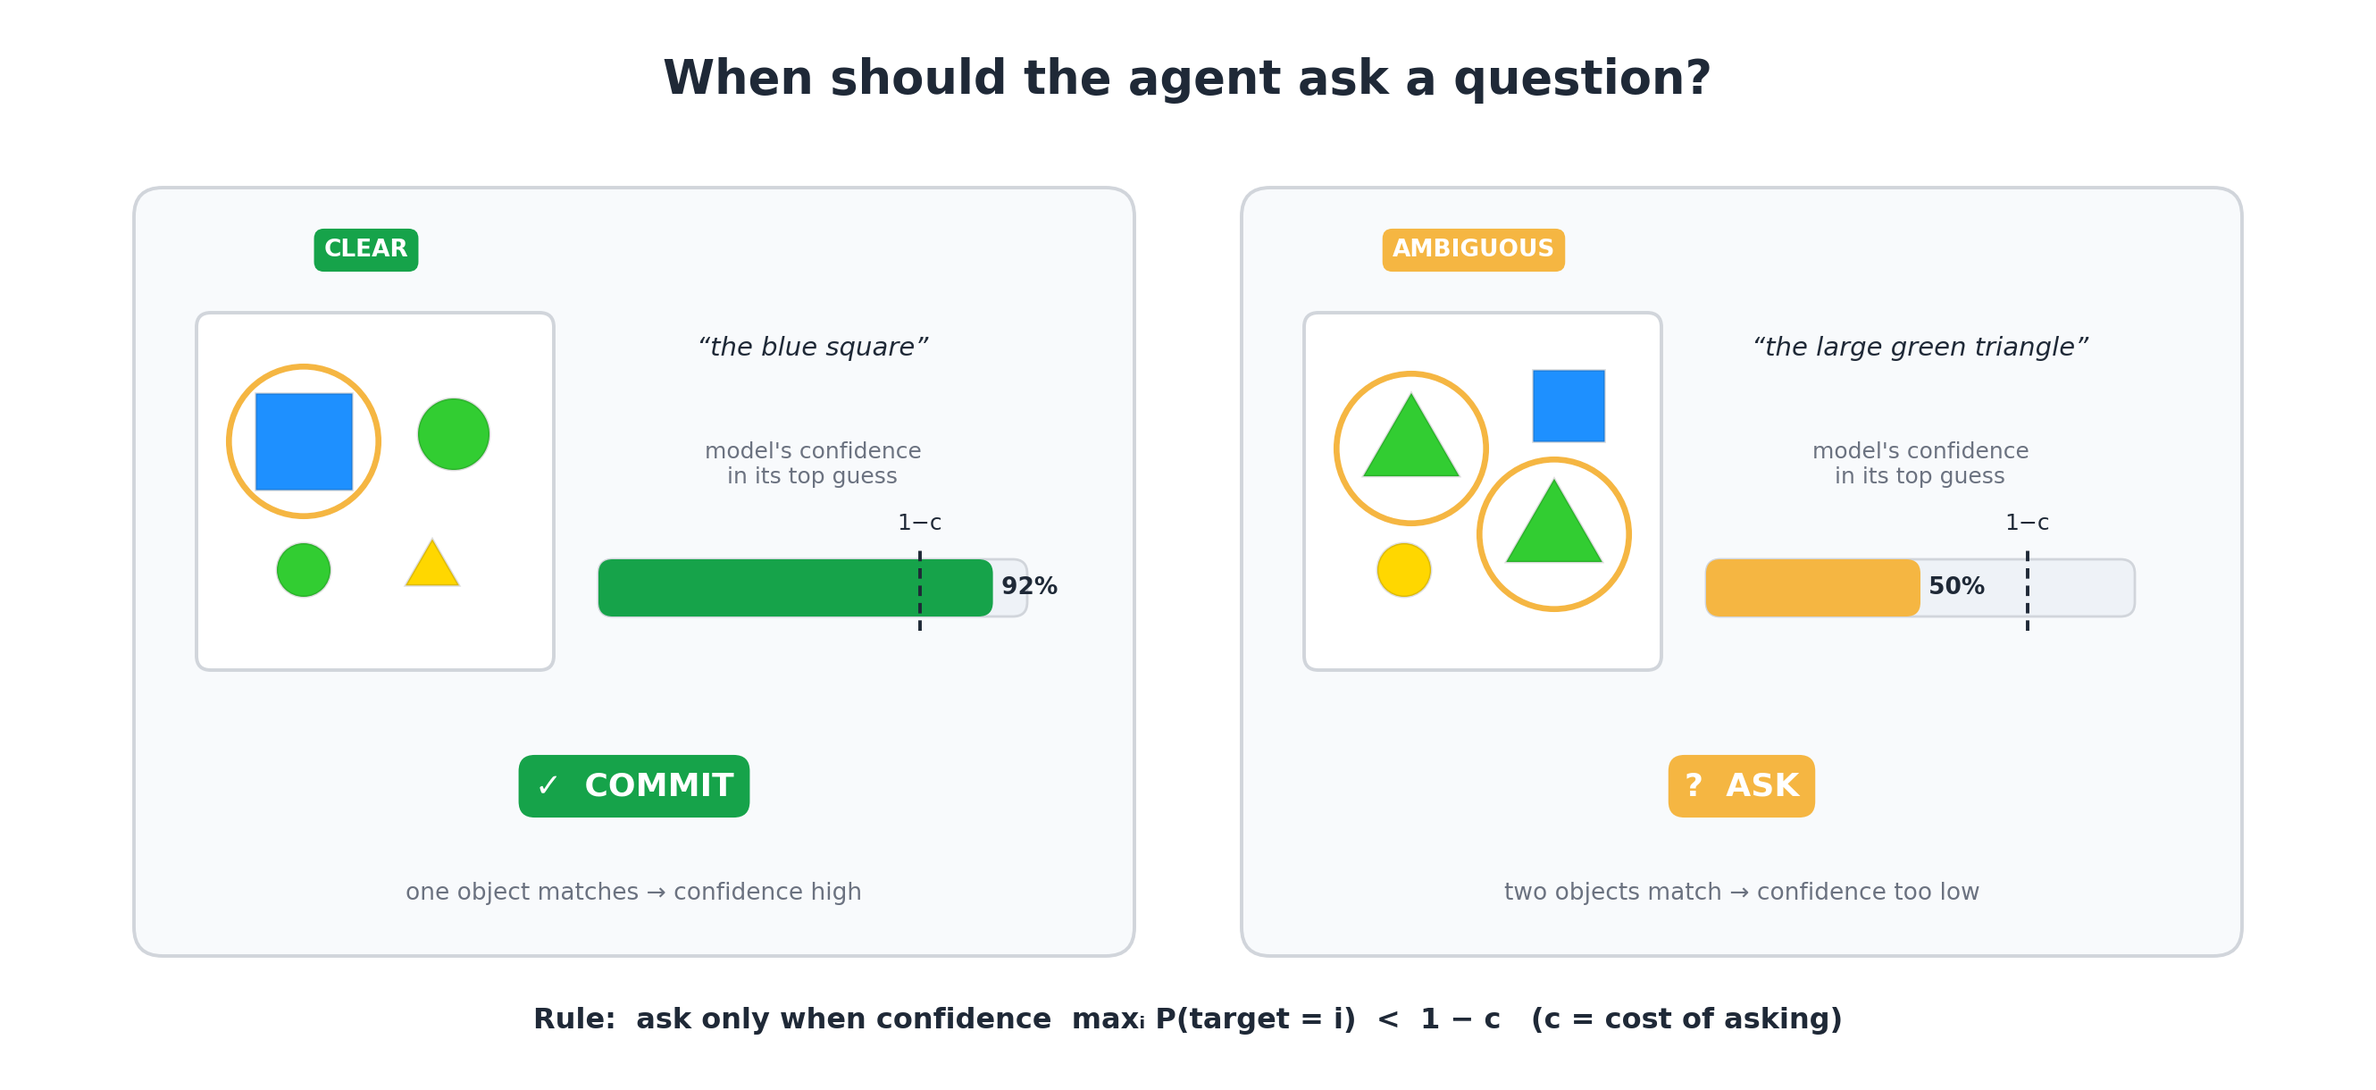
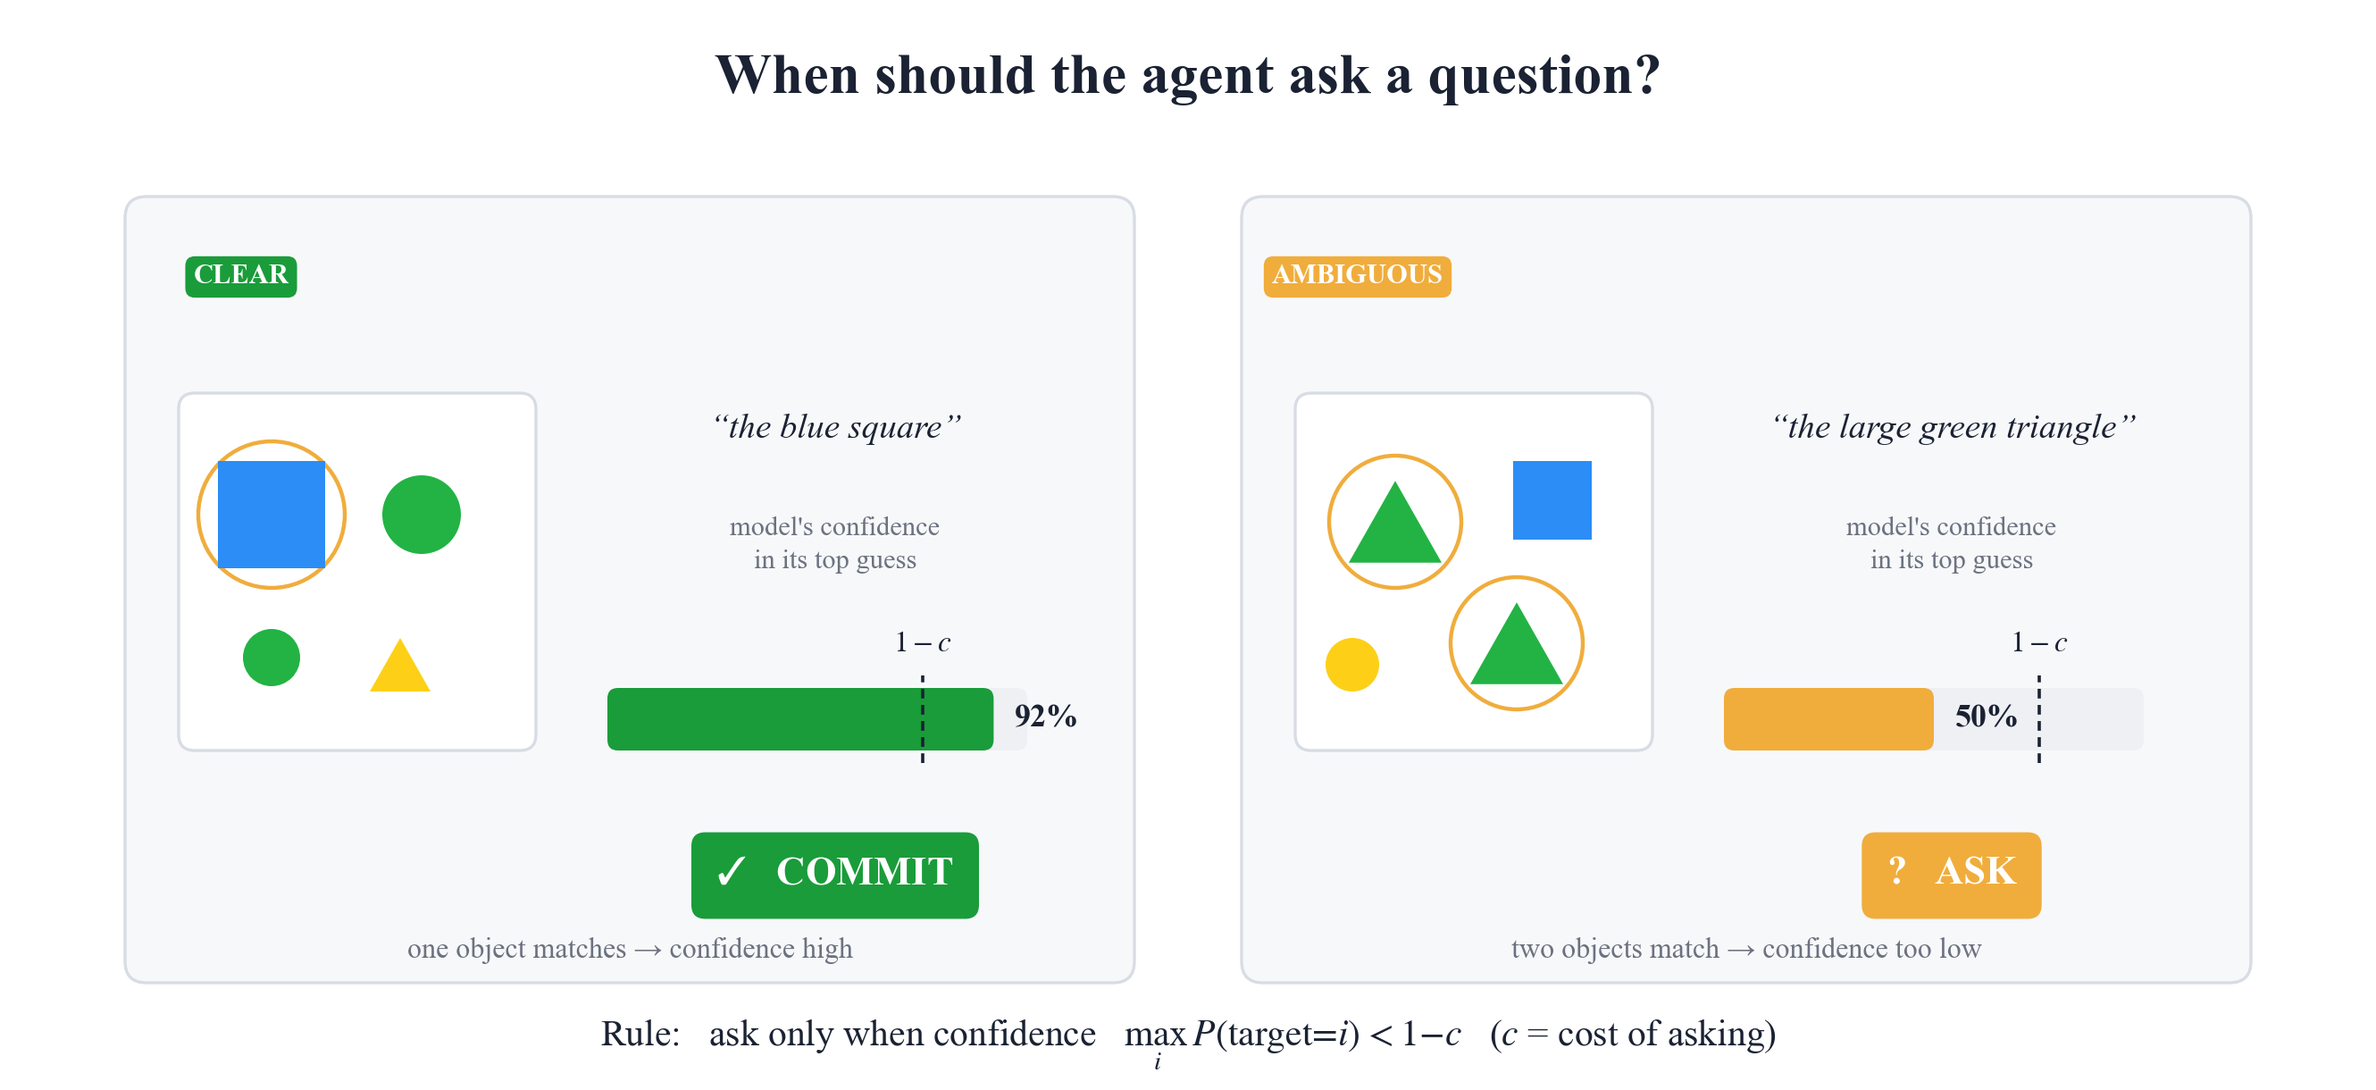
Restyle the CS 288 reference-game project
Drop the gold "UC Berkeley CS 288" partner line from both CS 288 cards and
trim the Ask or Commit description from six sentences to four, keeping the
1-c rule, the 28,800-evaluation scale, and the miscalibrated-uncertainty
conclusion.

Retypeset the three carousel figures in the style of an AI/ML conference
paper: Times New Roman body text with STIX Two math, so the decision rule
reads as real math rather than plain text. Colors and layout are unchanged.
The original generator was never committed, so the figures are rebuilt from
the images; scripts/make_refgame_figures.py now keeps them reproducible.
Also fixes the "target" label, which the old figure clipped against the
left panel border.

Suppress the blue uppercase slide caption on this carousel via a
slideLabels flag, leaving the Polar Cloud captions in place. The alt text
stays for screen readers.

diff --git a/data.js b/data.js
@@ -134,10 +134,10 @@ const PROJECTS = [
       { src: 'assets/refgame_decision.png', alt: 'The ask-or-commit rule: commit when confident, ask only when the description is ambiguous' },
       { src: 'assets/refgame_result.png',   alt: 'Key finding: the listener that never over-asks scores highest; more reasoning lowers the score' },
     ],
+    slideLabels: false,
     icon: '🎯',
-    partner: 'UC Berkeley CS 288',
     title: 'Ask or Commit? Clarification in Multimodal Reference Games',
-    desc: 'A decision-theoretic study of when a language agent should <em>ask a clarifying question</em> versus commit to an answer. I frame clarification as a training-free expected-utility rule grounded in Rational Speech Act theory: the listener asks only when its top posterior falls below a confidence threshold of <strong>1&minus;c</strong>. Across <strong style="color:var(--gold)">28,800 evaluations</strong> spanning 8 speaker and 6 listener strategies over synthetic vision-language scenes, a counterintuitive result emerges — <strong>more reasoning hurts</strong>. Chain-of-Thought listeners verbalize visual uncertainty into diffuse posteriors that trigger needless questions and <em>lower</em> cost-penalized accuracy, even when the top guess was already correct. Ablations pin the cause: the bottleneck for pragmatic agents is not reasoning capability but <strong style="color:var(--gold)">miscalibrated uncertainty</strong> — the simplest hard-decision listener, which never asks, dominates every elaborate alternative.',
+    desc: 'A decision-theoretic study of when a language agent should <em>ask a clarifying question</em> versus commit. Grounded in Rational Speech Act theory, the listener asks only when its top posterior falls below a confidence threshold of <strong>1&minus;c</strong> — a training-free expected-utility rule. Across <strong style="color:var(--gold)">28,800 evaluations</strong> spanning 8 speaker and 6 listener strategies, a counterintuitive result emerges: <strong>more reasoning hurts</strong>. Chain-of-Thought listeners verbalize visual uncertainty into diffuse posteriors that trigger needless questions and <em>lower</em> cost-penalized accuracy, even when the top guess was already right. The bottleneck is not reasoning capability but <strong style="color:var(--gold)">miscalibrated uncertainty</strong> — the simplest listener, which never asks, dominates every elaborate alternative.',
     links: [
       { type: 'github', url: 'https://github.com/minikouda/pragmatic-reference-game' },
       { type: 'report', url: 'assets/ask-or-commit.pdf' },
@@ -170,7 +170,6 @@ const PROJECTS = [
   {
     featured: false,
     icon: '🤖',
-    partner: 'UC Berkeley CS 288',
     title: 'Berkeley EECS RAG Question-Answering System',
     desc: 'End-to-end Retrieval-Augmented Generation pipeline over Berkeley EECS web content. Built an async web crawler, LLM-powered data cleaner, and semantic chunker. Retrieval uses FAISS dense search (BGE embeddings) fused with BM25 via RRF, augmented by HyDE query expansion and cross-encoder re-ranking. Generation powered by LLaMA-3.1-8B.',
     links: [

diff --git a/script.js b/script.js
@@ -176,19 +176,20 @@ function buildDiagram(d) {
     </div>`;
 }
 
-function buildCarousel(slides) {
+function buildCarousel(slides, showLabels = true) {
   const imgs = slides.map((s, i) =>
     `<img src="${s.src}" alt="${s.alt}" loading="lazy" class="carousel-slide${i === 0 ? ' active' : ''}" />`
   ).join('');
   const dots = slides.map((_, i) =>
     `<button class="carousel-dot${i === 0 ? ' active' : ''}" aria-label="Slide ${i + 1}"></button>`
   ).join('');
+  const label = showLabels ? '<div class="carousel-label"></div>' : '';
   return `
     <div class="carousel">
       <div class="carousel-track">${imgs}</div>
       <button class="carousel-btn carousel-prev" aria-label="Previous">&#8249;</button>
       <button class="carousel-btn carousel-next" aria-label="Next">&#8250;</button>
-      <div class="carousel-label"></div>
+      ${label}
       <div class="carousel-dots">${dots}</div>
     </div>`;
 }
@@ -206,10 +207,10 @@ function initCarousels() {
       idx = (n + slides.length) % slides.length;
       slides[idx].classList.add('active');
       dots[idx].classList.add('active');
-      label.textContent = slides[idx].alt;
+      if (label) label.textContent = slides[idx].alt;
     }
 
-    label.textContent = slides[0].alt;
+    if (label) label.textContent = slides[0].alt;
     carousel.querySelector('.carousel-prev').addEventListener('click', () => go(idx - 1));
     carousel.querySelector('.carousel-next').addEventListener('click', () => go(idx + 1));
     dots.forEach((dot, i) => dot.addEventListener('click', () => go(i)));
@@ -225,7 +226,7 @@ function buildProjectCard(p) {
   if (p.featured) {
     let media;
     if (p.slides) {
-      media = buildCarousel(p.slides);
+      media = buildCarousel(p.slides, p.slideLabels !== false);
     } else if (p.demo.type === 'video') {
       media = `<video src="${p.demo.src}" autoplay muted loop playsinline style="width:100%;border-radius:8px;display:block;"></video>`;
     } else {

diff --git a/scripts/make_refgame_figures.py b/scripts/make_refgame_figures.py
@@ -1,0 +1,281 @@
+#!/usr/bin/env python3
+"""Regenerate the three "Ask or Commit?" carousel figures.
+
+Typeset in the style of an AI/ML conference paper: Times New Roman body text
+with STIX Two (Times-metric) math, rather than the UI sans-serif the original
+figures used.
+
+    python3 scripts/make_refgame_figures.py
+
+Writes assets/refgame_demo.png, refgame_decision.png, refgame_result.png.
+"""
+
+import os
+
+import matplotlib
+matplotlib.use("Agg")
+
+import matplotlib.pyplot as plt
+from matplotlib.patches import Circle, FancyBboxPatch, Polygon, Rectangle
+
+# ── Paper typography ────────────────────────────────────────────────────────
+plt.rcParams.update({
+    "font.family":       "serif",
+    "font.serif":        ["Times New Roman", "STIX Two Text", "DejaVu Serif"],
+    "mathtext.fontset":  "stix",
+    "text.color":        "#1a2233",
+    "savefig.facecolor": "white",
+})
+
+# ── Palette (unchanged from the original figures) ───────────────────────────
+INK     = "#1a2233"
+MUTED   = "#6b7280"
+GREEN   = "#22b344"
+GREEN_D = "#1a9c3a"
+BLUE    = "#2b8df5"
+GOLD    = "#f0ad3c"
+YELLOW  = "#fdd017"
+GREY    = "#9ca3af"
+RED     = "#dc2626"
+PANEL   = "#f7f8fa"
+EDGE    = "#d8dce4"
+TRACK   = "#eef0f4"
+DARK    = "#111827"
+
+DPI = 200
+ASSETS = os.path.join(os.path.dirname(os.path.dirname(os.path.abspath(__file__))), "assets")
+
+
+def canvas(w_units, h_units):
+    """An axes measured in the same units in x and y, so circles stay round."""
+    fig = plt.figure(figsize=(w_units / 20, h_units / 20), dpi=DPI)
+    ax = fig.add_axes([0, 0, 1, 1])
+    ax.set_xlim(0, w_units)
+    ax.set_ylim(0, h_units)
+    ax.set_aspect("equal")
+    ax.axis("off")
+    return fig, ax
+
+
+def rounded(ax, x, y, w, h, r=2.0, fc="none", ec=EDGE, lw=1.2, z=1):
+    ax.add_patch(FancyBboxPatch(
+        (x + r, y + r), w - 2 * r, h - 2 * r,
+        boxstyle=f"round,pad={r},rounding_size={r}",
+        facecolor=fc, edgecolor=ec, linewidth=lw, zorder=z,
+    ))
+
+
+def badge(ax, x, y, text, color, fs=11, pad=1.5, tc="white"):
+    """A small filled pill, centred on (x, y)."""
+    ax.text(x, y, text, ha="center", va="center", fontsize=fs, color=tc,
+            zorder=6, fontweight="bold",
+            bbox=dict(boxstyle=f"round,pad={pad / 5},rounding_size=0.35",
+                      facecolor=color, edgecolor="none"))
+
+
+def shape(ax, kind, cx, cy, size, color, label=None, z=4):
+    """Draw one scene object; `size` is the width/diameter in axis units."""
+    if kind == "circle":
+        ax.add_patch(Circle((cx, cy), size / 2, facecolor=color, edgecolor="none", zorder=z))
+    elif kind == "square":
+        ax.add_patch(Rectangle((cx - size / 2, cy - size / 2), size, size,
+                               facecolor=color, edgecolor="none", zorder=z))
+    elif kind == "triangle":
+        h = size * 0.88
+        ax.add_patch(Polygon([(cx, cy + h / 2), (cx - size / 2, cy - h / 2),
+                              (cx + size / 2, cy - h / 2)],
+                             closed=True, facecolor=color, edgecolor="none", zorder=z))
+    if label:
+        ax.text(cx, cy, label, ha="center", va="center", fontsize=10,
+                color="white", fontweight="bold", zorder=z + 1)
+
+
+# Objects shared by the two scene panels of figure 1, in panel-relative
+# coordinates: (kind, x, y, size, colour).
+SCENE = [
+    ("square",   0.22, 0.74, 0.21, GREEN),
+    ("square",   0.66, 0.76, 0.16, BLUE),
+    ("triangle", 0.44, 0.53, 0.14, YELLOW),
+    ("circle",   0.22, 0.28, 0.26, GREEN),
+    ("square",   0.55, 0.25, 0.13, GREEN),
+    ("square",   0.79, 0.24, 0.14, YELLOW),
+]
+
+
+# ───────────────────────────────────────────────────────────── figure 1 ─────
+def fig_demo():
+    W, H = 266, 118
+    fig, ax = canvas(W, H)
+
+    ax.text(W / 2, 109, "How a reference game works",
+            ha="center", va="center", fontsize=23, fontweight="bold")
+
+    lp = (12, 30, 60, 58)    # left panel:  x, y, w, h
+    rp = (194, 30, 60, 58)   # right panel
+
+    badge(ax, lp[0] + lp[2] / 2, 96, "1  ·  SPEAKER", BLUE)
+    badge(ax, W / 2, 96, "2  ·  DESCRIBE", GOLD)
+    badge(ax, rp[0] + rp[2] / 2, 96, "3  ·  LISTENER", GREEN_D)
+
+    def draw_scene(panel, numbered):
+        x, y, w, h = panel
+        rounded(ax, x, y, w, h, r=2.2, fc="white", ec=EDGE)
+        for i, (kind, rx, ry, rs, color) in enumerate(SCENE, start=1):
+            cx, cy, size = x + rx * w, y + ry * h, rs * w
+            shape(ax, kind, cx, cy, size, color, label=str(i) if numbered else None)
+            if not numbered and i == 4:  # ring the secret target
+                ax.add_patch(Circle((cx, cy), size / 2 + 2.6, facecolor="none",
+                                    edgecolor=GOLD, linewidth=1.8, zorder=3))
+                ax.text(cx, cy + size / 2 + 5.4, "target", ha="center", va="bottom",
+                        fontsize=10, color=GOLD, style="italic")
+
+    draw_scene(lp, numbered=False)
+    draw_scene(rp, numbered=True)
+
+    rounded(ax, 100, 52, 66, 20, r=2.2, fc=PANEL, ec=GOLD, lw=1.5)
+    ax.text(133, 62, '“the big green circle,\nbottom-left”', ha="center", va="center",
+            fontsize=15, style="italic", linespacing=1.5)
+    ax.text(133, 44, "writes one short\nreferring expression", ha="center", va="center",
+            fontsize=12, color=MUTED, linespacing=1.5)
+
+    for x0, x1 in ((74, 96), (170, 192)):
+        ax.annotate("", xy=(x1, 62), xytext=(x0, 62),
+                    arrowprops=dict(arrowstyle="-|>", color="#586173", lw=1.6,
+                                    mutation_scale=16))
+
+    ax.text(lp[0] + lp[2] / 2, 25, "sees the scene and a secret target",
+            ha="center", va="center", fontsize=12, color=MUTED)
+    ax.text(rp[0] + rp[2] / 2, 25, "sees numbered objects + the description",
+            ha="center", va="center", fontsize=12, color=MUTED)
+
+    rounded(ax, 12, 6, 242, 13, r=2.0, fc=DARK, ec="none")
+    ax.text(133, 12.5,
+            "then it must DECIDE:   commit to its best guess     •     "
+            "or ask a clarifying question?",
+            ha="center", va="center", fontsize=14, color="white", zorder=5)
+
+    return fig
+
+
+# ───────────────────────────────────────────────────────────── figure 2 ─────
+def fig_decision():
+    W, H = 266, 122
+    fig, ax = canvas(W, H)
+
+    ax.text(W / 2, 113, "When should the agent ask a question?",
+            ha="center", va="center", fontsize=23, fontweight="bold")
+
+    cases = [
+        dict(x=14, tag="CLEAR", tag_c=GREEN_D, quote="“the blue square”",
+             conf=0.92, bar_c=GREEN_D, act=r"$\checkmark$   COMMIT", act_c=GREEN_D,
+             note="one object matches → confidence high",
+             objs=[("square", 0.26, 0.66, 0.30, BLUE, True),
+                   ("circle", 0.68, 0.66, 0.22, GREEN, False),
+                   ("circle", 0.26, 0.26, 0.16, GREEN, False),
+                   ("triangle", 0.62, 0.24, 0.17, YELLOW, False)]),
+        dict(x=139, tag="AMBIGUOUS", tag_c=GOLD, quote="“the large green triangle”",
+             conf=0.50, bar_c=GOLD, act="?   ASK", act_c=GOLD,
+             note="two objects match → confidence too low",
+             objs=[("triangle", 0.28, 0.64, 0.26, GREEN, True),
+                   ("square", 0.72, 0.70, 0.22, BLUE, False),
+                   ("circle", 0.16, 0.24, 0.15, YELLOW, False),
+                   ("triangle", 0.62, 0.30, 0.26, GREEN, True)]),
+    ]
+
+    for c in cases:
+        px, py, pw, ph = c["x"], 12, 113, 88
+        rounded(ax, px, py, pw, ph, r=2.4, fc=PANEL, ec=EDGE)
+        badge(ax, px + 13, py + ph - 9, c["tag"], c["tag_c"], fs=11)
+
+        sx, sy, sw, sh = px + 6, py + 26, 40, 40
+        rounded(ax, sx, sy, sw, sh, r=1.8, fc="white", ec=EDGE)
+        for kind, rx, ry, rs, color, ringed in c["objs"]:
+            cx, cy, size = sx + rx * sw, sy + ry * sh, rs * sw
+            shape(ax, kind, cx, cy, size, color)
+            if ringed:
+                ax.add_patch(Circle((cx, cy), size / 2 + 2.2, facecolor="none",
+                                    edgecolor=GOLD, linewidth=1.6, zorder=3))
+
+        rx0 = px + 52
+        rw = pw - 58
+        ax.text(rx0 + rw / 2, py + ph - 26, c["quote"], ha="center", va="center",
+                fontsize=14, style="italic")
+        ax.text(rx0 + rw / 2, py + ph - 39, "model's confidence\nin its top guess",
+                ha="center", va="center", fontsize=11, color=MUTED, linespacing=1.5)
+
+        # confidence meter with the 1 − c decision threshold
+        bx, by, bw, bh = rx0 + 2, py + 26, rw - 8, 7
+        thresh = 0.75
+        rounded(ax, bx, by, bw, bh, r=1.2, fc=TRACK, ec="none")
+        rounded(ax, bx, by, bw * c["conf"], bh, r=1.2, fc=c["bar_c"], ec="none", z=2)
+        ax.plot([bx + bw * thresh] * 2, [by - 1.4, by + bh + 1.4],
+                color=INK, lw=1.3, ls=(0, (3, 2)), zorder=5)
+        ax.text(bx + bw * thresh, by + bh + 3.4, "$1-c$", ha="center", va="bottom",
+                fontsize=12)
+        ax.text(bx + bw * c["conf"] + 2.4, by + bh / 2, f"{c['conf']:.0%}",
+                ha="left", va="center", fontsize=13, fontweight="bold", zorder=6)
+
+        badge(ax, rx0 + rw / 2, py + 12, c["act"], c["act_c"], fs=16, pad=3.2)
+        ax.text(px + pw / 2, py + 3.6, c["note"], ha="center", va="center",
+                fontsize=11.5, color=MUTED)
+
+    ax.text(W / 2, 5,
+            "Rule:   ask only when confidence   "
+            r"$\max_i \, P(\mathrm{target} = i) \;<\; 1-c$"
+            "   ($c$ = cost of asking)",
+            ha="center", va="center", fontsize=15)
+
+    return fig
+
+
+# ───────────────────────────────────────────────────────────── figure 3 ─────
+def fig_result():
+    W, H = 266, 118
+    fig, ax = canvas(W, H)
+
+    ax.text(11, 106, "The surprising result", ha="left", va="center",
+            fontsize=23, fontweight="bold")
+    ax.text(11, 94, "Cost-penalized score  (accuracy minus a penalty for every "
+                    "question asked — higher is better)",
+            ha="left", va="center", fontsize=13, color=MUTED)
+
+    rows = [
+        ("Never asks — just commits", 0.92, GREEN_D, "the simplest listener"),
+        ("Direct guess",              0.74, BLUE,    None),
+        ("Image-based guess",         0.30, GREY,    None),
+        ("Chain-of-Thought — over-asks", 0.24, RED,   "the most ‘reasoning’"),
+    ]
+
+    x0, x1 = 96, 242          # bar track
+    bh = 7.6
+    ys = [77, 60, 43, 26]
+
+    for (label, val, color, note), y in zip(rows, ys):
+        ax.text(x0 - 4, y, label, ha="right", va="center", fontsize=14)
+        rounded(ax, x0, y - bh / 2, x1 - x0, bh, r=1.3, fc=TRACK, ec="none")
+        bw = (x1 - x0) * val
+        rounded(ax, x0, y - bh / 2, bw, bh, r=1.3, fc=color, ec="none", z=2)
+        ax.text(x0 + bw + 3.5, y, f"{val:.2f}", ha="left", va="center",
+                fontsize=14, fontweight="bold")
+        if note:
+            ax.text(x0 + bw - 3, y, note, ha="right", va="center", fontsize=10.5,
+                    color="white", style="italic", zorder=4)
+
+    ax.text(11, 10,
+            "More reasoning → more needless questions → lower score.  The bottleneck "
+            "isn't reasoning ability,\nit's miscalibrated confidence: the model asks "
+            "even when its top guess was already right.",
+            ha="left", va="center", fontsize=14, linespacing=1.7)
+
+    return fig
+
+
+if __name__ == "__main__":
+    for name, builder in (("refgame_demo", fig_demo),
+                          ("refgame_decision", fig_decision),
+                          ("refgame_result", fig_result)):
+        out = os.path.join(ASSETS, f"{name}.png")
+        fig = builder()
+        fig.savefig(out, dpi=DPI, facecolor="white")
+        plt.close(fig)
+        print(f"wrote {out}")
